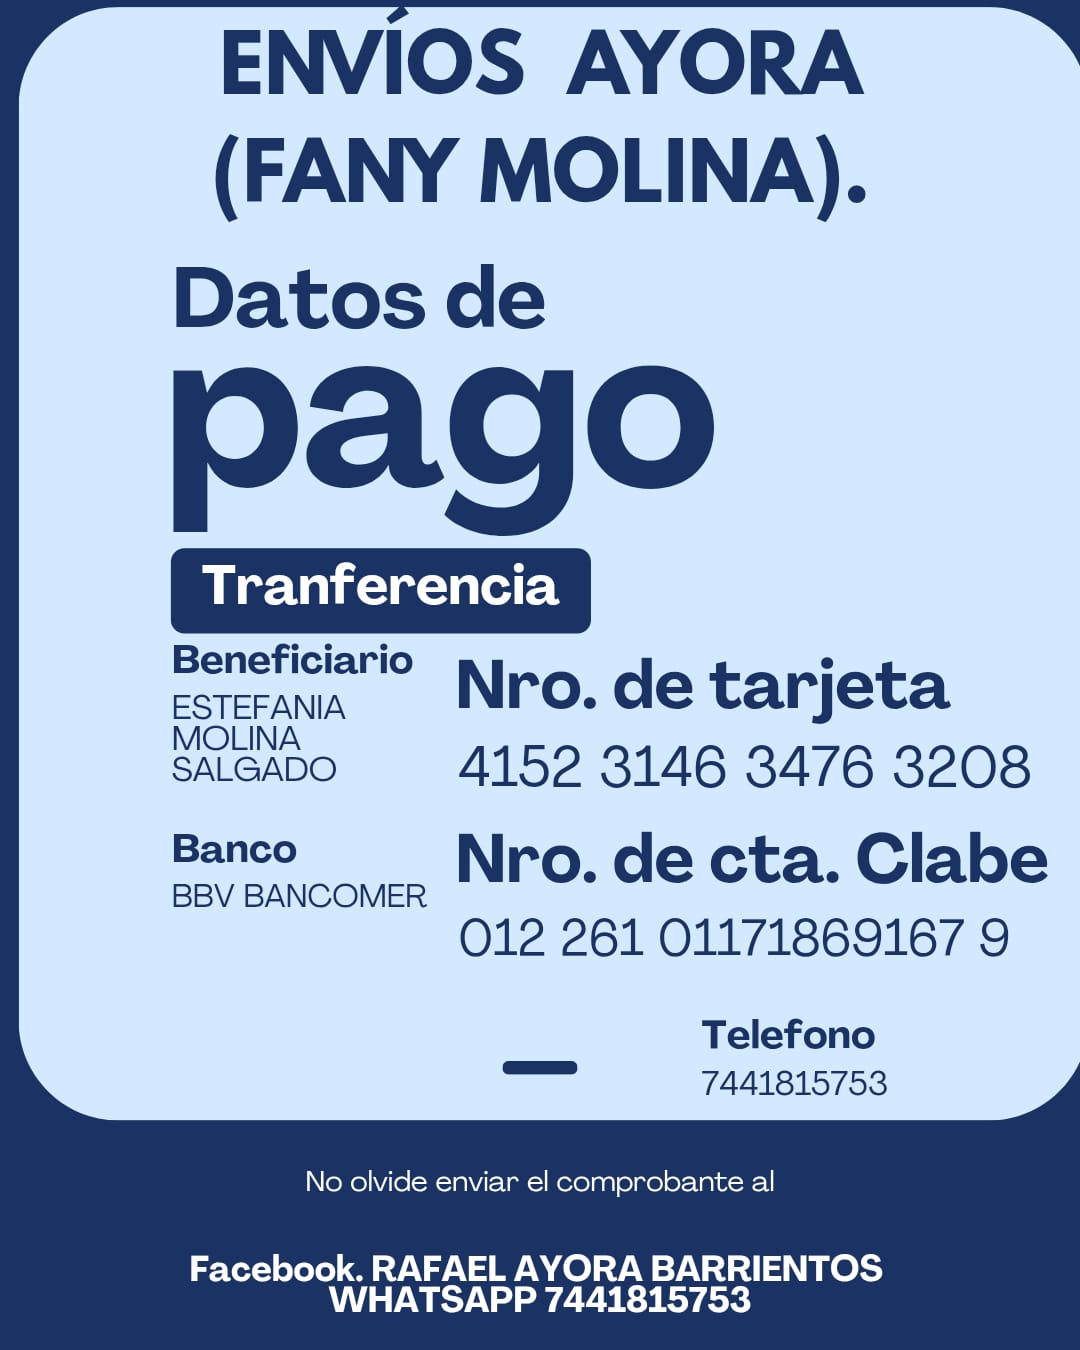
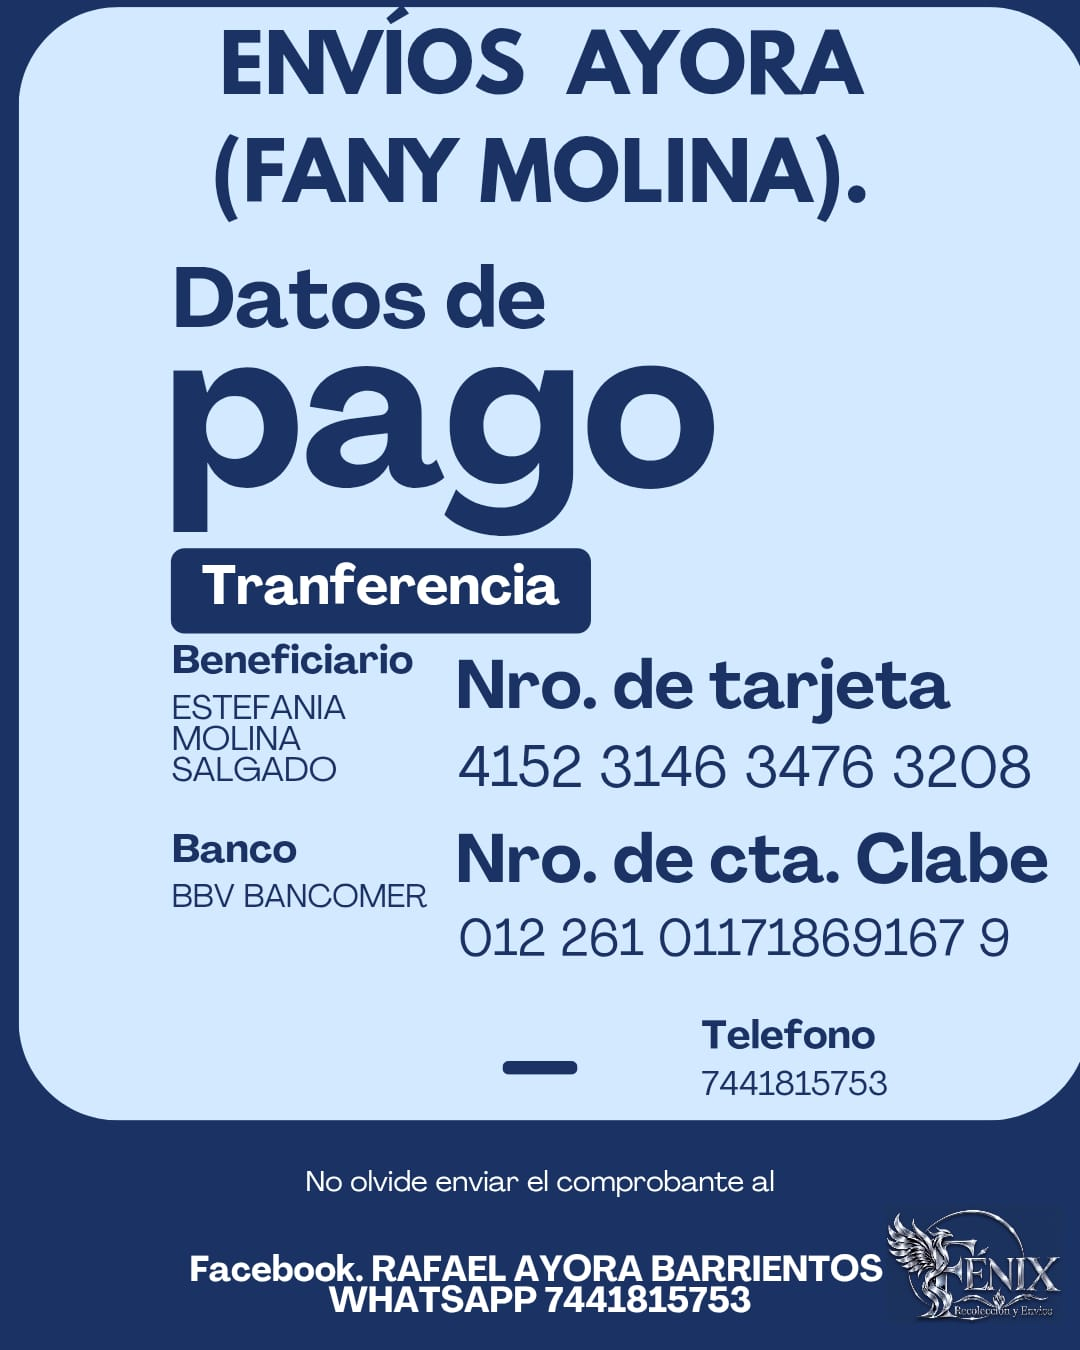
Agregar imagen de políticas de almacenaje y multas al cotizador

Changed region(s): [[0.825, 0.8711, 0.9778, 0.9956]]

diff --git a/web/pages/admin/cotizador.js b/web/pages/admin/cotizador.js
@@ -174,22 +174,33 @@ export default function Cotizador() {
     setCompartiendo(true);
     setAvisoCompartir('');
     try {
-      const res = await fetch('/datos-pago.jpg');
-      const blob = await res.blob();
-      const archivo = new File([blob], 'datos-de-pago.jpg', { type: blob.type || 'image/jpeg' });
+      const [resPago, resPoliticas] = await Promise.all([
+        fetch('/datos-pago.jpg'),
+        fetch('/politicas-almacenaje.jpg'),
+      ]);
+      const [blobPago, blobPoliticas] = await Promise.all([resPago.blob(), resPoliticas.blob()]);
+      const archivoPago = new File([blobPago], 'datos-de-pago.jpg', { type: blobPago.type || 'image/jpeg' });
+      const archivoPoliticas = new File([blobPoliticas], 'politicas-de-almacenaje.jpg', {
+        type: blobPoliticas.type || 'image/jpeg',
+      });
+      const archivos = [archivoPago, archivoPoliticas];
 
-      if (navigator.canShare && navigator.canShare({ files: [archivo] })) {
-        await navigator.share({ text: texto, files: [archivo] });
+      if (navigator.canShare && navigator.canShare({ files: archivos })) {
+        await navigator.share({ text: texto, files: archivos });
+      } else if (navigator.canShare && navigator.canShare({ files: [archivoPago] })) {
+        // Algunos navegadores solo permiten compartir un archivo a la vez.
+        await navigator.share({ text: texto, files: [archivoPago] });
+        setAvisoCompartir('Tu navegador solo permite adjuntar una imagen a la vez — se envió el texto con los datos de pago. Manda la imagen de políticas de almacenaje por separado.');
       } else if (navigator.share) {
         await navigator.share({ text: texto });
-        setAvisoCompartir('Tu navegador no permite compartir la imagen junto con el texto — se compartió solo el texto. Manda la imagen de datos de pago por separado.');
+        setAvisoCompartir('Tu navegador no permite compartir imágenes junto con el texto — se compartió solo el texto. Manda las imágenes de datos de pago y políticas por separado.');
       } else {
         await navigator.clipboard.writeText(texto);
-        setAvisoCompartir('Tu navegador no soporta compartir directo. Copiamos el texto al portapapeles — manda la imagen de datos de pago por separado.');
+        setAvisoCompartir('Tu navegador no soporta compartir directo. Copiamos el texto al portapapeles — manda las imágenes por separado.');
       }
     } catch (err) {
       if (err.name !== 'AbortError') {
-        setAvisoCompartir('No se pudo compartir. Intenta de nuevo o comparte el texto y la imagen por separado.');
+        setAvisoCompartir('No se pudo compartir. Intenta de nuevo o comparte el texto y las imágenes por separado.');
       }
     } finally {
       setCompartiendo(false);
@@ -356,7 +367,7 @@ export default function Cotizador() {
               Enviar por WhatsApp (solo texto)
             </button>
             <button className="btn secondary" onClick={compartirConDatosDePago} disabled={compartiendo}>
-              {compartiendo ? 'Compartiendo...' : '📎 Compartir con datos de pago'}
+              {compartiendo ? 'Compartiendo...' : '📎 Compartir con datos de pago y políticas'}
             </button>
           </div>
           {avisoCompartir && (
@@ -381,9 +392,18 @@ export default function Cotizador() {
           </pre>
 
           <p style={{ fontSize: 12.5, color: '#6b7280', marginTop: 10 }}>
-            Vista previa de los datos de pago que se adjuntan al compartir:
+            Vista previa de las imágenes que se adjuntan al compartir:
           </p>
-          <img src="/datos-pago.jpg" alt="Datos de pago" style={{ maxWidth: 280, borderRadius: 10, border: '1px solid #eee' }} />
+          <div style={{ display: 'flex', flexWrap: 'wrap', gap: 12 }}>
+            <div>
+              <img src="/datos-pago.jpg" alt="Datos de pago" style={{ maxWidth: 240, borderRadius: 10, border: '1px solid #eee', display: 'block' }} />
+              <p style={{ fontSize: 11.5, color: '#9ca3af', textAlign: 'center', marginTop: 4 }}>Datos de pago</p>
+            </div>
+            <div>
+              <img src="/politicas-almacenaje.jpg" alt="Políticas de almacenaje y multas" style={{ maxWidth: 240, borderRadius: 10, border: '1px solid #eee', display: 'block' }} />
+              <p style={{ fontSize: 11.5, color: '#9ca3af', textAlign: 'center', marginTop: 4 }}>Políticas de almacenaje y multas</p>
+            </div>
+          </div>
         </div>
       )}
 
